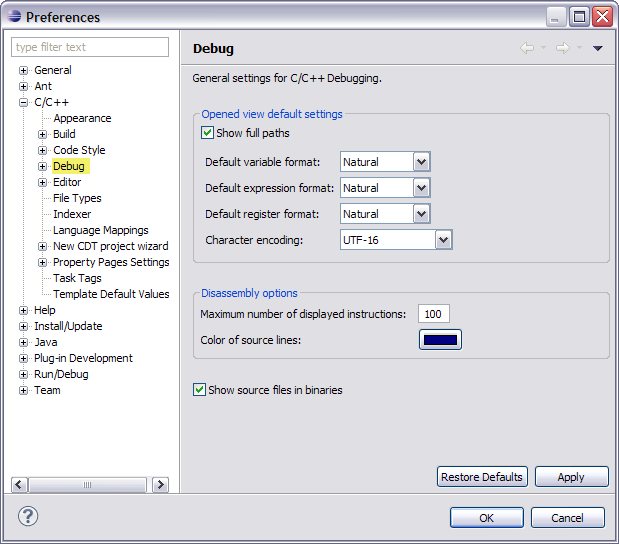
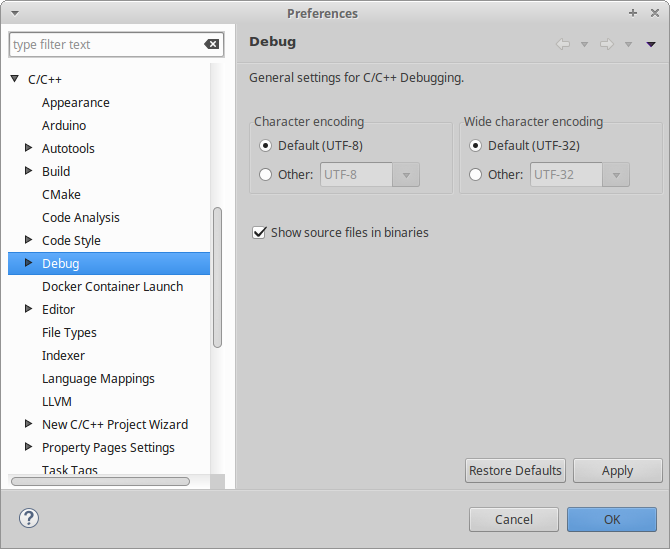
Bug 484900: Remove CDI User Documentation

Changed region(s): [[0.0, 0.0, 1.0, 1.0], [0.6753, 0.5312, 0.7674, 0.6562]]

diff --git a/debug/org.eclipse.cdt.debug.application.doc/reference/cdt_u_debug.htm b/debug/org.eclipse.cdt.debug.application.doc/reference/cdt_u_debug.htm
@@ -28,32 +28,12 @@
 			<th id="description"><strong>Description</strong></th>
 		</tr>
 		<tr>
-			<td headers="option"><strong>Show Full Paths</strong></td>
-			<td headers="description">Select this checkbox to show the full path to files and directories.</td>
-		</tr>
-		<tr>
-			<td headers="option"><strong>Default variable format</strong></td>
-			<td headers="description">Select the default variable format from either Default, Hexadecimal, Decimal, Octal or Binary.</td>
-		</tr>
-		<tr>
-			<td headers="option"><strong>Default expression format</strong></td>
-			<td headers="description">Select the default expression format from either Default, Hexadecimal, Decimal, Octal or Binary.</td>
-		</tr>
-		<tr>
-			<td headers="option"><strong>Default register format</strong></td>
-			<td headers="description">Select the default register format from either Default, Hexadecimal, Decimal, Octal or Binary.</td>
-		</tr>
-		<tr>
 			<td headers="option"><strong>Character encoding</strong></td>
-			<td headers="description">Select a character encoding scheme from the dropdown list.</td>
+			<td headers="description">Use this option to specify the charset used by the <var>char</var> type of the inferior (target) program</td>
 		</tr>
 		<tr>
-			<td headers="option"><strong>Maximum number of displayed instructions</strong></td>
-			<td headers="description">Enter the maximum number of disassembly instruction to be shown in the Disassembly view.</td>
-		</tr>
-		<tr>
-			<td headers="option"><strong>Color of source lines</strong></td>
-			<td headers="description">Select the color of source lines in the mixed source/disassembly mode.</td>
+			<td headers="option"><strong>Wide character encoding</strong></td>
+			<td headers="description">Use this option to specify the charset used by the <var>wchar_t</var> type of the inferior (target) program</td>
 		</tr>
 		<tr>
 			<td headers="option"><strong>Show source files in binaries</strong></td>

diff --git a/doc/org.eclipse.cdt.doc.user/reference/cdt_u_debug.htm b/doc/org.eclipse.cdt.doc.user/reference/cdt_u_debug.htm
@@ -28,32 +28,12 @@
 			<th id="description"><strong>Description</strong></th>
 		</tr>
 		<tr>
-			<td headers="option"><strong>Show Full Paths</strong></td>
-			<td headers="description">Select this checkbox to show the full path to files and directories.</td>
-		</tr>
-		<tr>
-			<td headers="option"><strong>Default variable format</strong></td>
-			<td headers="description">Select the default variable format from either Default, Hexadecimal, Decimal, Octal or Binary.</td>
-		</tr>
-		<tr>
-			<td headers="option"><strong>Default expression format</strong></td>
-			<td headers="description">Select the default expression format from either Default, Hexadecimal, Decimal, Octal or Binary.</td>
-		</tr>
-		<tr>
-			<td headers="option"><strong>Default register format</strong></td>
-			<td headers="description">Select the default register format from either Default, Hexadecimal, Decimal, Octal or Binary.</td>
-		</tr>
-		<tr>
 			<td headers="option"><strong>Character encoding</strong></td>
-			<td headers="description">Select a character encoding scheme from the dropdown list.</td>
+			<td headers="description">Use this option to specify the charset used by the <var>char</var> type of the inferior (target) program</td>
 		</tr>
 		<tr>
-			<td headers="option"><strong>Maximum number of displayed instructions</strong></td>
-			<td headers="description">Enter the maximum number of disassembly instruction to be shown in the Disassembly view.</td>
-		</tr>
-		<tr>
-			<td headers="option"><strong>Color of source lines</strong></td>
-			<td headers="description">Select the color of source lines in the mixed source/disassembly mode.</td>
+			<td headers="option"><strong>Wide character encoding</strong></td>
+			<td headers="description">Use this option to specify the charset used by the <var>wchar_t</var> type of the inferior (target) program</td>
 		</tr>
 		<tr>
 			<td headers="option"><strong>Show source files in binaries</strong></td>

diff --git a/debug/org.eclipse.cdt.debug.application.doc/reference/cdt_o_ref.htm b/debug/org.eclipse.cdt.debug.application.doc/reference/cdt_o_ref.htm
@@ -62,7 +62,6 @@
   <img src="../images/trans.gif" width="100" height="1" alt=""><a style="text-decoration:none" href="cdt_u_debug.htm">Debug preferences</a><br>
   <img src="../images/trans.gif" width="150" height="1" alt=""><a style="text-decoration:none" href="cdt_u_dbg_brkpt_actions.htm">Breakpoint Actions</a><br>
   <img src="../images/trans.gif" width="150" height="1" alt=""><a style="text-decoration:none" href="cdt_u_dbg_src.htm">Source Lookup Path</a><br>
-  <img src="../images/trans.gif" width="150" height="1" alt=""><a style="text-decoration:none" href="cdt_u_gdb_mi.htm">GDB MI preferences</a><br>
   
   <img src="../images/trans.gif" width="100" height="1" alt=""><a style="text-decoration:none" href="cdt_u_c_editor_gen.htm">Editor preferences</a><br>
   <img src="../images/trans.gif" width="150" height="1" alt=""><a style="text-decoration:none" href="cdt_u_c_editor_con_assist.htm">Content Assist</a><br>

diff --git a/doc/org.eclipse.cdt.doc.user/reference/cdt_o_ref.htm b/doc/org.eclipse.cdt.doc.user/reference/cdt_o_ref.htm
@@ -62,7 +62,6 @@
   <img src="../images/trans.gif" width="100" height="1" alt=""><a style="text-decoration:none" href="cdt_u_debug.htm">Debug preferences</a><br>
   <img src="../images/trans.gif" width="150" height="1" alt=""><a style="text-decoration:none" href="cdt_u_dbg_brkpt_actions.htm">Breakpoint Actions</a><br>
   <img src="../images/trans.gif" width="150" height="1" alt=""><a style="text-decoration:none" href="cdt_u_dbg_src.htm">Source Lookup Path</a><br>
-  <img src="../images/trans.gif" width="150" height="1" alt=""><a style="text-decoration:none" href="cdt_u_gdb_mi.htm">GDB MI preferences</a><br>
   
   <img src="../images/trans.gif" width="100" height="1" alt=""><a style="text-decoration:none" href="cdt_u_c_editor_gen.htm">Editor preferences</a><br>
   <img src="../images/trans.gif" width="150" height="1" alt=""><a style="text-decoration:none" href="cdt_u_c_editor_con_assist.htm">Content Assist</a><br>
